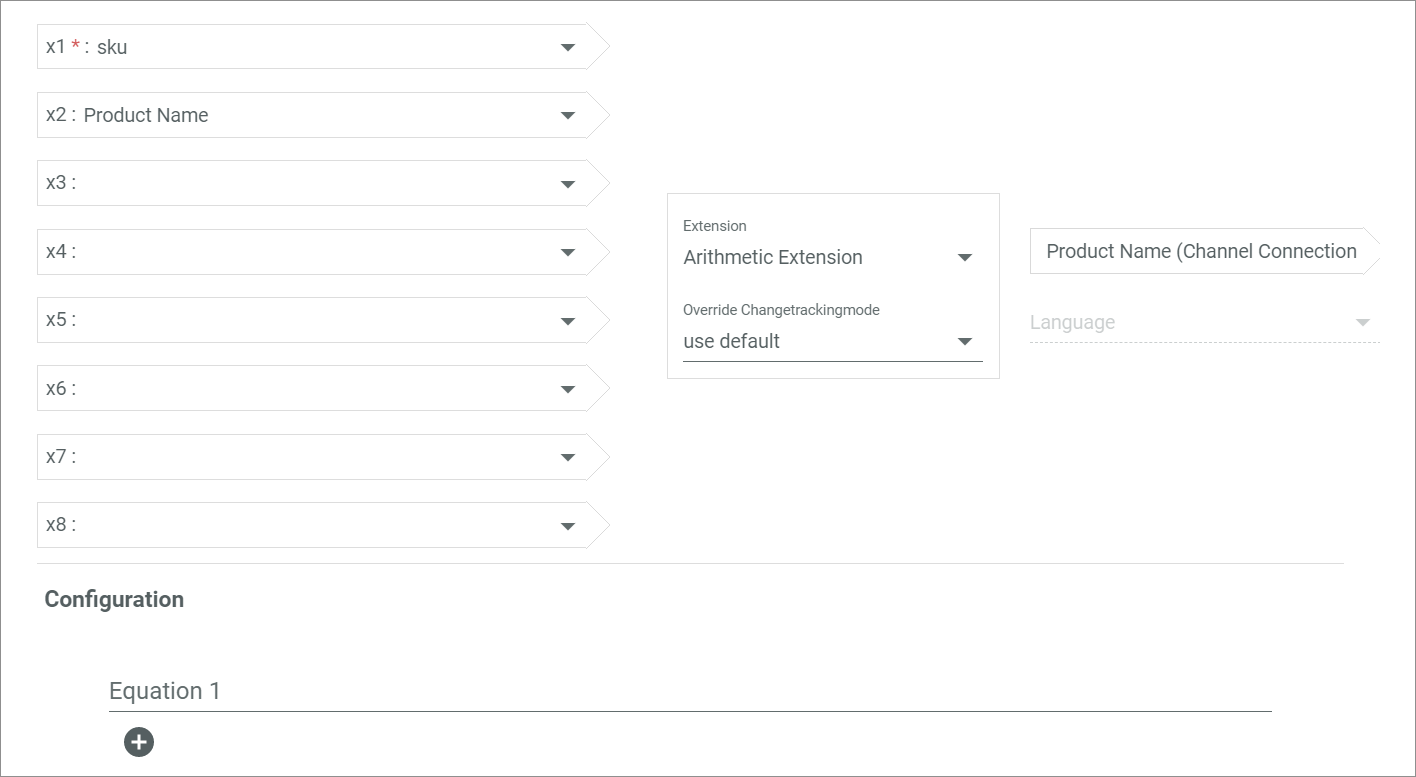
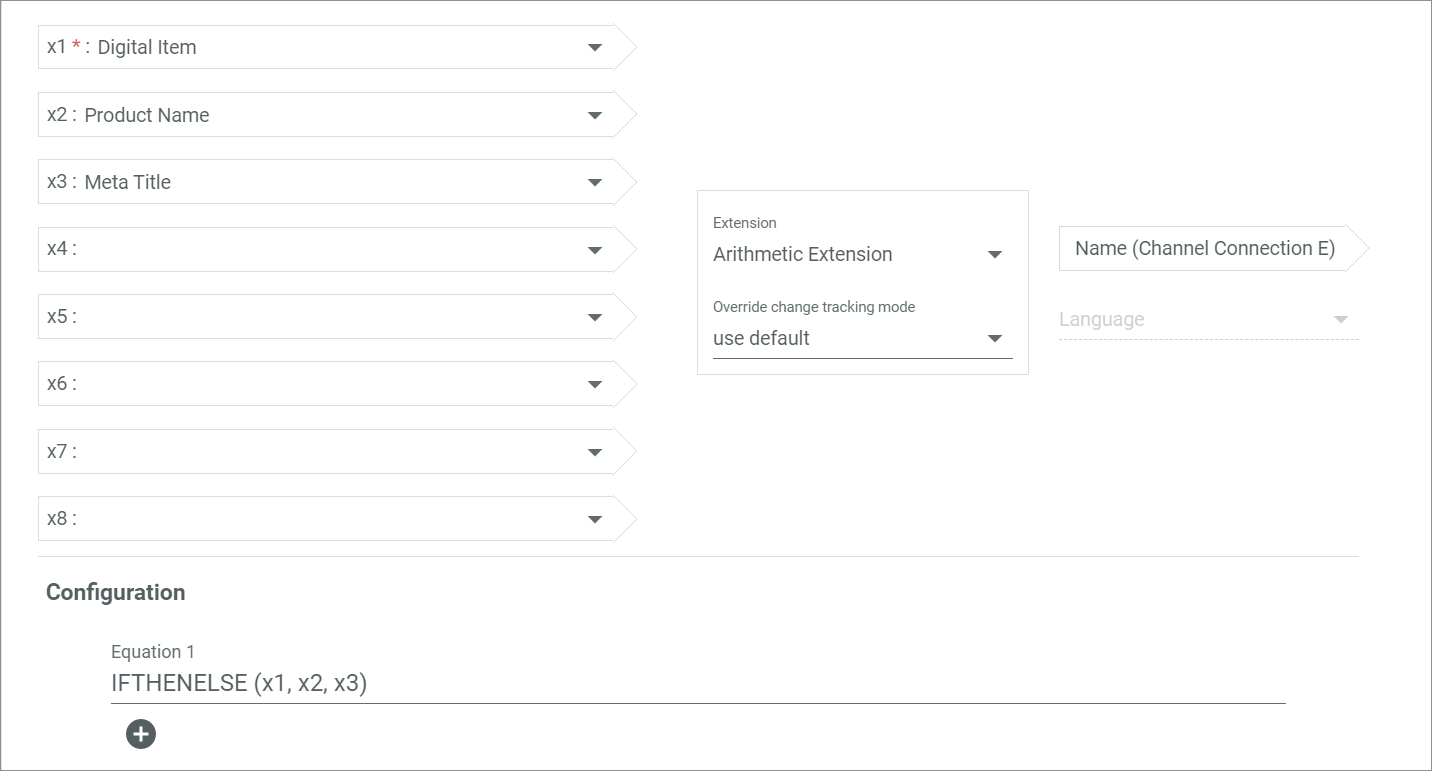
ACD-521
ETL extensions update

diff --git a/DataHub/UserInterface/03_ETLExtensions.md b/DataHub/UserInterface/03_ETLExtensions.md
@@ -112,7 +112,7 @@ This extension is used to add a specific prefix and/or suffix to the destination
 
 ![Arithmetic extension](../../Assets/Screenshots/DataHub/Settings/ETL/Extensions/ArithmeticExtension.png "[Arithmetic extension]")
 
-This extension is used to combine or calculate several attributes in a specified manner and map them to a destination attribute. The mapping can be used to include mathematical equations for numbers but also to combine multiple strings or numbers and units, etc. Define the equation and, if desired, fallback equations, in the configuration. At least one source attribute must be selected in the *x1* source attribute. Up to eight attributes can be selected.   
+This extension is used to apply a certain logic to the mapping. Define the equation and, if desired, fallback equations, in the configuration. At least one source attribute must be selected in the *x1* source attribute. Up to eight attributes can be selected.   
 
 ### Possible data type mappings
 
@@ -128,13 +128,12 @@ This extension is used to combine or calculate several attributes in a specified
 ### Configuration
 
 - *Equation 1*   
-    Enter an equation to combine the source attributes and map them to the destination attribute, for instance **x1 + x2** to combine the values of the corresponding source attributes.
+    Enter an equation to define the logic to be applied to the mapping, for instance **IFTHENELSE (x1, x2, x3)** to map the value of the attribute in the *x2* field if the value in the *x1* field is set. Otherwise, the value of the attribute in the *x3* field is mapped.
 
 - ![Add](../../Assets/Icons/Plus03.png "[Add]") (Add)   
     Click this button to add another equation. If the value of the first equation is empty, the second equation is used as a fallback value. You can add an unlimited number of equations.
 
-[comment]: <> (aktuell noch fehlerhaft: immer die letzte und nur diese angegebene equation wird gemappt -> soll geändert werden)
-
+[comment]: <> (bitte kontrollieren und ggf. anpassen/weiter ausführen)
 
 
 ## Basic mapping
@@ -401,7 +400,7 @@ This extension is used to map the generic property of an entity attribute to a d
 | String                           | String, Text field, Integer    |
 | Boolean                          | String, Text field, Integer    |
 
-[comment]: <> (aktueller Bug: Configuration wird nur bei boolean als destination attribut angezeigt. Anwendungsfall aufzeigen! Mehr Infos)
+[comment]: <> (Configuration wird nur bei boolean als destination attribut angezeigt. -> BUG-224)
 
 ### Configuration
 
@@ -416,8 +415,6 @@ This extension is used to map the generic property of an entity attribute to a d
 
 - ![Toggle](../../Assets/Icons/Toggle.png "[Toggle]") *Invert bool*   
     Enable the toggle to invert the boolean value after mapping. Otherwise, the boolean value will remain as mapped.
-
-[comment]: <> (Configuration überarbeiten! Was macht die drop-down list?)
 
 
 
@@ -468,13 +465,11 @@ For detailed information about HTML templates, see [Manage the HTML templates](.
 
 ![Identity mapping](../../Assets/Screenshots/DataHub/Settings/ETL/Extensions/IdentityMapping.png "[Identity mapping]")
 
-This extension is used to copy the value from the source attribute and map it to the destination attribute. In contrast to the *Basic mapping* extension, only completely identical attributes in the source and the destination attribute can be mapped.
+This extension is used to copy the value from the source attribute and map it to the destination attribute. In contrast to the *Basic mapping* extension, only completely identical attributes in the source and the destination attribute can be mapped. Therefore, the identical attributes must be included in both the source attribute set and the destination attribute set.
 
 ### Possible data type mappings
 
-This extension is mostly data type independent. All attributes with a self-mappable data type can be mapped.
-
-[comment]: <> (Selfmappable erklären, welche datentypen sind nicht selfmappable?)
+This extension is mostly data type independent. All attributes with a self-mappable data type can be mapped. You can select the checkbox of the attribute mapping and click the [ADD TO SOURCE SET AND MAP] mapping to apply the *Identity mapping* instead of using the *Settings* section on the right hand side of the view. The [ADD TO SOURCE SET AND MAP]  button is only displayed if the *Identity mapping* is available for the selected destination attribute.
 
 ### Configuration
 
@@ -672,7 +667,9 @@ This extension is used to map a set of source attributes to fixed destination at
 
 ![MySQL query](../../Assets/Screenshots/DataHub/Settings/ETL/Extensions/MySQLQuery.png "[MySQL query]")
 
-This extension is used to map a MySQL query to a destination attribute. The MySQL query can include placeholders that are defined in up to four source attributes. The MySQL query to be applied is selected in the configuration. This mapping is mainly used for more logical assignments which cannot be mapped with other extensions. This extension is only available when the *Database and reporting* module is installed.  
+This extension is used to map a MySQL query to a destination attribute. The MySQL query can include placeholders that are defined in up to four source attributes. The MySQL query to be applied is selected in the configuration. This mapping is mainly used for more logical assignments which cannot be mapped with other extensions. This extension is only available if the *Database and reporting* module is installed.  
+
+> [Info] Note that the change tracking mode is not working for the *MySQL* extension.
 
 ### Possible data type mappings
 
@@ -692,11 +689,6 @@ This extension is used to map a MySQL query to a destination attribute. The MySQ
 
 - [TEST]   
     Click this button to run the selected query and test if a valid value is extracted.
-
-- *Column*   
-    Enter the name from the column in the MYSQL database from which the value will be selected.
-
-[comment]: <> (Stimmt das alles? Bild aktualisieren! Modul installieren? No change tracking?)
 
 
 
@@ -1129,36 +1121,6 @@ This extension is used to map a PIM price field attribute with a fallback attrib
 
 
 
-[comment]: <> (gibt es die extensions RMA-Extension und RMAExtension PosId Extensions noch?
-
-## RMA extension ???
-
-### Possible data type mappings
-
-> [Info] The data type of the destination attribute and the selected ETL extension determine the data type of the source attribute.
-
-| Destination attribute data type  | Source attribute data type     |
-|----------------------------------|--------------------------------|
-| String                           | *EAN*, *Amount*: String         |
-
-### Configuration
-
-
-
-## RMA extension pos ID extensions ???
-
-### Possible data type mappings
-
-> [Info] The data type of the destination attribute and the selected ETL extension determine the data type of the source attribute.
-
-| Destination attribute data type  | Source attribute data type        |
-|----------------------------------|-----------------------------------|
-| String                           |*Project number*, *EAN*: String    |
-
-### Configuration )
-
-
-
 ## Simple pricing to float
 
 ![Simple pricing to float](../../Assets/Screenshots/DataHub/Settings/ETL/Extensions/SimplePricingToFloat.png "[Simple pricing to float]")
@@ -1540,7 +1502,7 @@ This ETL extension has no further configuration settings.
 
 This extension is used to map a tax zone attribute to a string attribute. The tax zone attribute is Actindo specific and therefore needs a special extension for mapping. This mapping is only used when the tax zone is maintained in a separate attribute and not included to the price attribute.
 
-[comment]: <> (Stimmt das? Anwendungsbeispiel? Mehr infos! Bild aktualisieren! Datentypen?)
+[comment]: <> (Stimmen die Datentypen?)
 
 ### Possible data type mappings
 
@@ -1811,11 +1773,9 @@ This extension is used to map a unit attribute to a string attribute. A unit att
         The source unit is mapped to the destination attribute.
     - **Configured unit**   
         The unit to be mapped to the destination attribute must be selected in the *Configured unit* drop-down list.
-    - **Destination unit**   
-        The destination unit is kept in the destination attribute.
 
-[comment]: <> (Destination Unit -> error; Configured Unit -> not working and no drop-down list displayed; ergibt auch irgendwie beides keinen sinn, oder?)
-
+- *Unit*    
+    Click the drop-down list and select the unit that will be mapped in the destination unit. All units corresponding to the dimension of the destination attribute are displayed in the list. The drop-down list is only displayed if the **Configured unit** option is selected in the *Mode* drop-down list.
 
 - *Suffix Mode*   
     Click the drop-down list and select the suffix display mode for the unit. The following options are available:
@@ -1825,7 +1785,6 @@ This extension is used to map a unit attribute to a string attribute. A unit att
         The unit is displayed by its name, for instance *centimeter*.
     - **Suffix empty**   
         The unit is hidden.
-
 
 - *Separator*   
     Enter the separator sign placed between quantity and unit. If the field is left empty, the unit and quantity are written directly one after the other.
@@ -1866,7 +1825,7 @@ This extension is used to map a unit attribute to another unit attribute. A unit
         The destination unit is kept in the destination attribute.
 
 - *Configured unit*    
-    Click the drop-down list and select the unit that will be mapped in the destination unit. All units corresponding to the dimension of the destination attribute are displayed in the list. The drop-down list is only displayed if the  **Configured unit** option is selected in the *Choose the unit mapping mode* drop-down list.
+    Click the drop-down list and select the unit that will be mapped in the destination unit. All units corresponding to the dimension of the destination attribute are displayed in the list. The drop-down list is only displayed if the **Configured unit** option is selected in the *Choose the unit mapping mode* drop-down list.
 
 
 
@@ -1894,9 +1853,7 @@ This extension is used to map a variant attribute to text, for instance to provi
     Enter the attribute keys of those attributes that should not be mapped to the destination attribute.
 
 - *Language for values from a tree node*   
-    Click the drop-down list and select the language of the source attribute value used for the mapping. All active languages are displayed in the list. This setting only applies to values from a tree node.
-
-[comment]: <> (when is the language setting displayed?)
+    Click the drop-down list and select the language of the source attribute value used for the mapping. All languages that are active in the *DataHub* module are displayed in the list. This setting only applies to values from a tree node.
 
 
 
@@ -1907,8 +1864,6 @@ This extension is used to map a variant attribute to text, for instance to provi
 ![Variant value to master SKU](../../Assets/Screenshots/DataHub/Settings/ETL/Extensions/VariantValueToMasterSKU.png "[Variant value to master SKU]")
 
 This extension is used to map a product variant attribute to a string attribute. The defining attribute value of the variant is mapped to the destination attribute. The product variant attribute is Actindo specific and therefore needs a special extension for mapping.
-
-[comment]: <> (stimmt das? Bild aktualisieren!)
 
 ### Possible data type mappings
 

diff --git a/DataHub/UserInterface/02d_ETL.md b/DataHub/UserInterface/02d_ETL.md
@@ -129,7 +129,7 @@ The list displays all attribute set mappings. Depending on the settings, the dis
     Click this button to delete the selected mapping to the destination attribute. This button is only displayed if the checkbox of a mapping is selected.       
 
 - [ADD TO SOURCE SET AND MAP]   
-    Click this button to add the selected destination attribute to the source attribute set and create a mapping. By default, the *Identity-mapping* extension is used to map the attributes. The button is only displayed if no mapping to the selected destination attribute already exists.
+    Click this button to add the selected destination attribute to the source attribute set and create a mapping. The *Identity mapping* extension is used to map the attributes, see [Identity mapping](./03_ETLExtensions.md#identity-mapping). The button is only displayed if no mapping to the selected destination attribute already exists and if the identical attributes are contained in both the source attribute and the destination attribute set.
 
 - [RERUN SELECTED MAPPING]   
     Click this button to rerun the selected attribute mapping. The button is only displayed if a mapping to the selected destination attribute already exists. The *Rerun single mapping* window is displayed.
